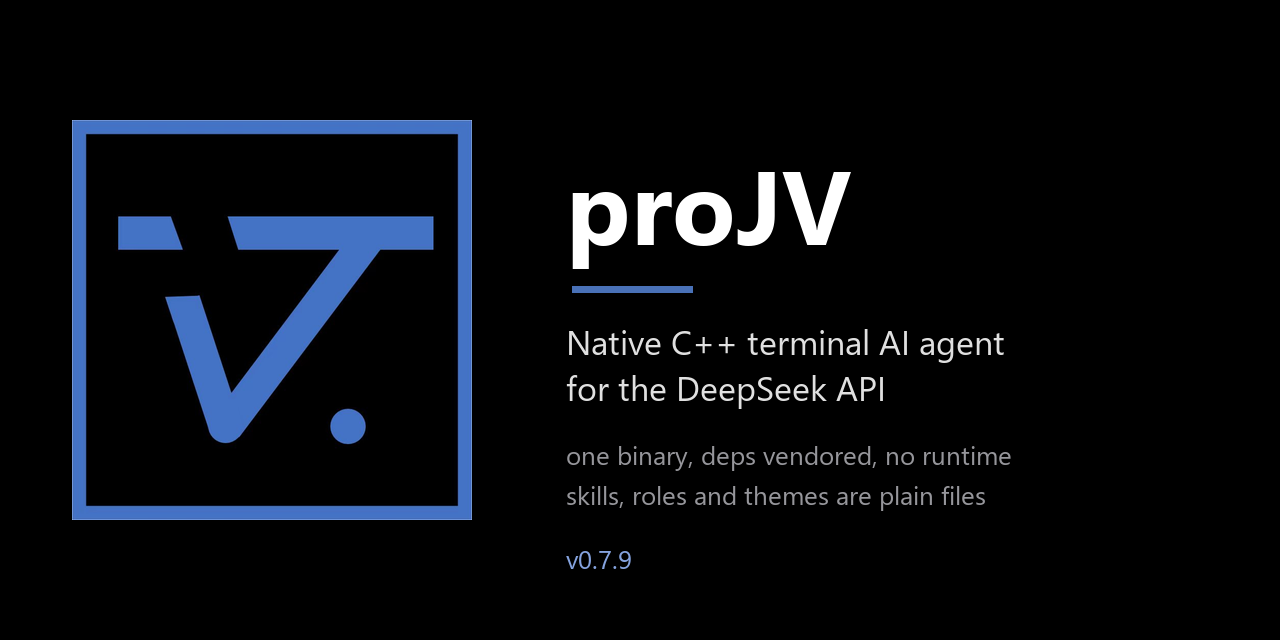
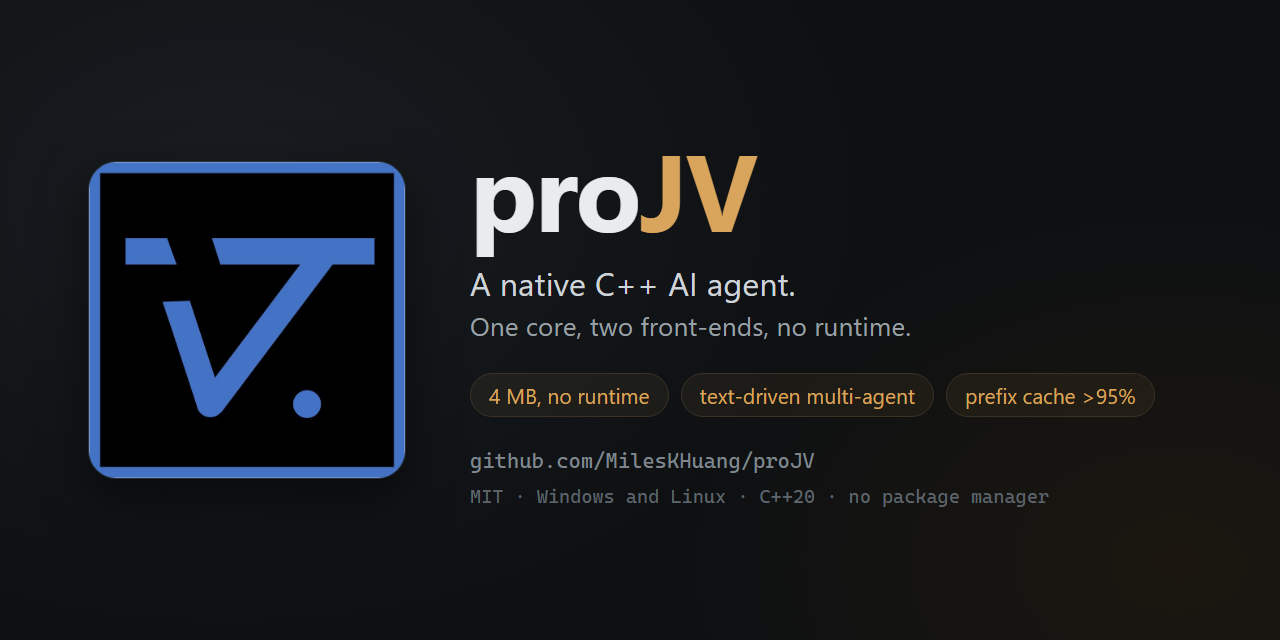
docs(readme): four points, both front-ends, and a new social card
The section that used to say three things now says the four the project wants to lead with: core and front-end separated, workflows driven by text, prefix caching, one file. The taglines follow, in both languages, because the old one said terminal-only while the first thing on the page is the window front-end. The two hero GIFs are real recordings of the 0.8.1 build (5 fps, 960 px, 4.45 MB and 2.30 MB), shown side by side at 480 px and linked to the full size, because at 480 px the text is a shape rather than a sentence. social-preview.png is regenerated at 1280x640 from an HTML card: logo, name, two lines, three chips.

diff --git a/README_zh.md b/README_zh.md
@@ -1,7 +1,7 @@
 <h1 align="center">proJV</h1>
 
 <p align="center">
-  <img src="assets/social-preview.png" width="780" alt="proJV：原生 C++ 终端 AI agent"/>
+  <img src="assets/social-preview.png" width="780" alt="proJV：原生 C++ AI agent 核心"/>
 </p>
 
 <p align="center">
@@ -9,7 +9,7 @@
 </p>
 
 <p align="center">
-  一个原生的 C++ 终端 AI agent，基于 DeepSeek。<br/>
+  一个原生的 C++ AI agent 核心：一份核心、两个前端，基于 DeepSeek。<br/>
   <code>proJV = Project Just Vibing</code>
 </p>
 
@@ -23,7 +23,10 @@
 </p>
 
 <p align="center">
-  <img src="assets/demo.gif" alt="proJV 演示"/>
+  <a href="assets/demo.gif"><img src="assets/demo.gif" width="480" alt="proJV studio：一个问题、一段流式回答，右侧是 dock"/></a>
+  <a href="assets/demo-tui.gif"><img src="assets/demo-tui.gif" width="480" alt="proJV TUI：同一个会话的终端形态"/></a>
+  <br/>
+  <sub>窗口前端 &nbsp;·&nbsp; 终端前端，同一个核心 &nbsp;·&nbsp; 点开看原尺寸</sub>
 </p>
 
 <p align="center">
@@ -32,16 +35,12 @@
 
 ---
 
-## 三个不一样的地方
+## 四个不一样的地方
 
-- **原生 C++，约 4 MB，零包管理器。** FTXUI + Dear ImGui + libcurl + SQLite 全部内置，
-  一次 `cmake --build` 就得到两个能直接 scp 的单文件二进制：终端版与窗口版
-  （Release 实测 4.02 MB / 4.00 MB）。
-- **多 agent 技能是数据，不是代码。** 一个技能就是一个文件夹：`config.json` +
-  每个角色一个 `.md` + 动词级工具 schema。扔进去就能跑，一个调度者可以把一次
-  回复派给十个并发执行的 worker。
-- **每一层都是你的。** 角色、工具、提示词、主题、压缩策略、Python 工具
-  —— 全是二进制旁边的普通文件，没有封闭生态。
+- **核心与前端分离，可以建立属于你自己的 UI。** 终端版与窗口版共用一份核心，核心测试可脱离前端构建。
+- **文本编辑，就能驱动 Multi-Agent 工作流。** 五个现成范例，覆盖圆桌会议 / 分队蜂群 / 专家投票 / 编程测试配对开发等核心场景。
+- **完整前缀缓存，命中率常态 >95%。** 固定的 system prompt 与良好的上下文管理，让缓存命中保持在高位。
+- **单文件无运行时，无需复杂配置。** 4 MB，配好 api key 直接开始使用。
 
 ---
 

diff --git a/README.md b/README.md
@@ -1,7 +1,7 @@
 <h1 align="center">proJV</h1>
 
 <p align="center">
-  <img src="assets/social-preview.png" width="780" alt="proJV: native C++ terminal AI agent for DeepSeek"/>
+  <img src="assets/social-preview.png" width="780" alt="proJV: a native C++ AI agent core"/>
 </p>
 
 <p align="center">
@@ -9,7 +9,7 @@
 </p>
 
 <p align="center">
-  A native C++ AI agent for the terminal, built on DeepSeek.<br/>
+  A native C++ AI agent core — one core, two front-ends, built on DeepSeek.<br/>
   <code>proJV = Project Just Vibing</code>
 </p>
 
@@ -23,7 +23,10 @@
 </p>
 
 <p align="center">
-  <img src="assets/demo.gif" alt="proJV demo"/>
+  <a href="assets/demo.gif"><img src="assets/demo.gif" width="480" alt="proJV studio: a question, a streamed answer, the dock on the right"/></a>
+  <a href="assets/demo-tui.gif"><img src="assets/demo-tui.gif" width="480" alt="proJV TUI: the same session in the terminal"/></a>
+  <br/>
+  <sub>the window front-end &nbsp;·&nbsp; the terminal front-end, same core &nbsp;·&nbsp; click either for full size</sub>
 </p>
 
 <p align="center">
@@ -32,17 +35,12 @@
 
 ---
 
-## Three things that make it different
+## Four things that make it different
 
-- **Native C++, ~4 MB, zero package managers.** FTXUI + Dear ImGui + libcurl +
-  SQLite, all vendored. One `cmake --build` and you have two binaries you can scp:
-  the terminal one and the window one (4.02 MB / 4.00 MB, Release).
-- **Multi-agent skills are data, not code.** A skill is a folder:
-  `config.json` + one `.md` per role + verb tool schemas. Copy it in — it runs.
-  A supervisor can fan one reply out to ten workers that execute concurrently.
-- **Every layer is yours.** Roles, tools, prompts, themes, the compaction
-  strategy, Python tools — all plain files next to the binary. No locked
-  ecosystem.
+- **Separated core and front-end: build your own UI.** The terminal and window front-ends share one core, and the core's tests build without either of them.
+- **Text-driven multi-agent workflows.** Five ready examples covering the core scenarios: a round table, a squad swarm, an expert vote, and a dev/test pair.
+- **Full prefix caching, hit rate normally above 95%.** A fixed system prompt and fine context management keep the prefix hit rate high.
+- **One file, no runtime, no complex setup.** A single 4 MB file; paste an API key and start.
 
 ---
 
